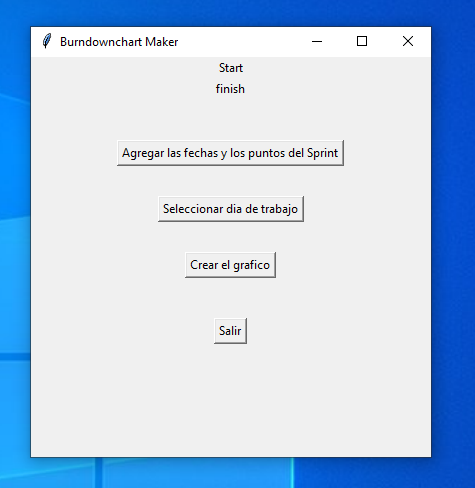
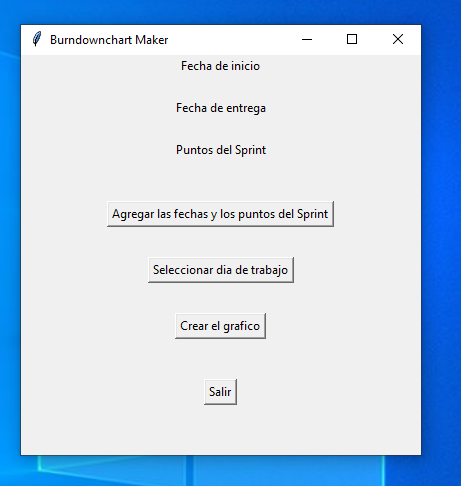
Update documentación

diff --git a/BurndownChart/app.py b/BurndownChart/app.py
@@ -25,7 +25,7 @@ def mkchrt():
         with plt.style.context('fivethirtyeight'):
             print('si')
             plt.plot(df["Fecha"],df["Esperado"],label="Esperado")
-            #plt.xticks(range(3,29),rotation=60)
+            plt.xticks(rotation=60)
             #plt.xticks(dias,rotation=60)
             plt.yticks(range(0,Hpoints[0]+1))
             plt.xlabel("\n Día en el Sprint")
@@ -65,18 +65,18 @@ def mkpoints():
 
     top = Toplevel(root)
     ##### start the proyect #####
-    star_label = Label(top,text="Start")
+    star_label = Label(top,text="Inicio del Sprint")
     star_label.pack()
     star_cal = DateEntry(top)
     star_cal.pack(pady=20)
 
     ##### finish the proyect #####
-    finish_label = Label(top,text="finish")
+    finish_label = Label(top,text="Entrega del Sprint")
     finish_label.pack()
     finish_cal = DateEntry(top)
     finish_cal.pack(pady=20)
 
-    info_points_label = Label(top,text="Número total de putos del Sprint")
+    info_points_label = Label(top,text="Total de puntos del Sprint")
     info_points_label.pack()
     entry_points = Entry(top)
     entry_points.pack(pady=5)
@@ -108,7 +108,7 @@ def mkidealwk():
 
     ##### Total points #####
     top = Toplevel(root)
-    Historia_label = Label(top,text="Ingresa la cantidad de puntos que tiene la historia")
+    Historia_label = Label(top,text="Ingresar la cantidad de puntos que tiene la historia")
     Historia_label.pack()
     Historia_box = Entry(top)
     Historia_box.pack(pady=5)
@@ -138,14 +138,20 @@ esperado = []
 Hpoints = []
 
 ##### start the proyect #####
-startdate_label = Label(root,text="Start")
+starttitulo_label = Label(root,text="Fecha de inicio")
+starttitulo_label.pack()
+startdate_label = Label(root,text="")
 startdate_label.pack()
 
 ##### finish the proyect #####
-finishdate_label = Label(root,text="finish")
+finishtitulo_label = Label(root,text="Fecha de entrega")
+finishtitulo_label.pack()
+finishdate_label = Label(root,text="")
 finishdate_label.pack()
 
 ##### Total points #####
+pointstitulo_label = Label(root,text="Puntos del Sprint")
+pointstitulo_label.pack()
 points_label = Label(root,text="")
 points_label.pack()
 

diff --git a/Documentos/Modelo 4+1/README.md b/Documentos/Modelo 4+1/README.md
@@ -1,7 +1,7 @@
-# Modelo 4+1
+# Modelo 4+1 📚
 Esta carpeta contiene:
-* Carpeta Base de datos
-* Carpeta Diagrama de clases
-* Carpeta Diagrama de componentes
-* Carpeta Diagrama de despliegue
-* Carpeta Diagrama de estados
+* Carpeta Base de datos 📂
+* Carpeta Diagrama de clases 📂
+* Carpeta Diagrama de componentes 📂
+* Carpeta Diagrama de despliegue 📂
+* Carpeta Diagrama de estados 📂

diff --git a/Documentos/README.md b/Documentos/README.md
@@ -1,7 +1,8 @@
-## Documentos
+## Documentos 📚
 Esta carpeta contiene:
-* Carpeta Backlog
-* Carpeta Mapa de Historias
-* Carpeta Modelo 4+1
-* El documento de visión.
-* El documento de casos de uso.
+* Carpeta Backlog 📅
+* Carpeta Mapa de Historias 📂
+* Carpeta Modelo 4+1 📂
+* El documento de visión 📄
+* El documento de casos de uso 📄
+* El documento Hito 1 (segundo semestre) 📄

diff --git a/BurndownChart/README.md b/BurndownChart/README.md
@@ -6,6 +6,8 @@
 
 ![Fechas y puntos](FechasyPuntos.png)
 
+![HomeConDatos](Inicio_con_datos.png)
+
 ![Tendencia de trabajo esperado](CrearEventoEsperado.png)
 ## Resultado
 ![BurndownChart](BurndownChart.jpg)
